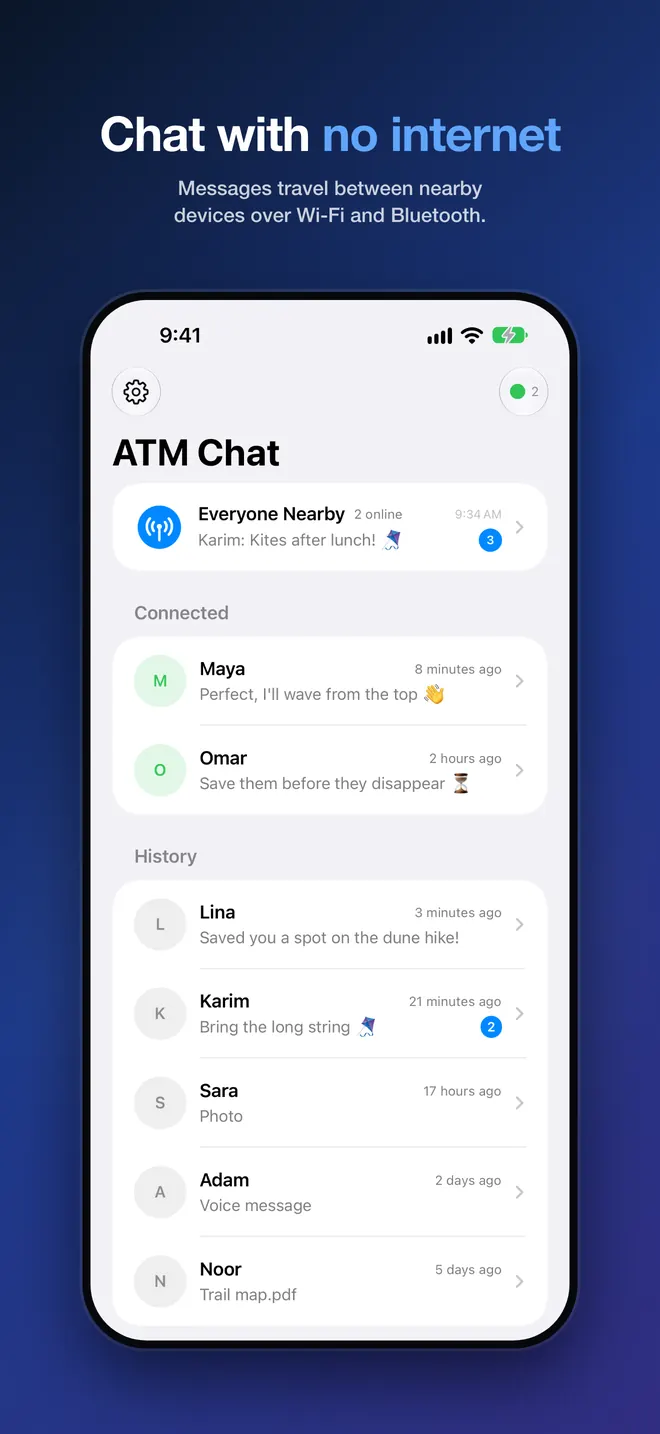
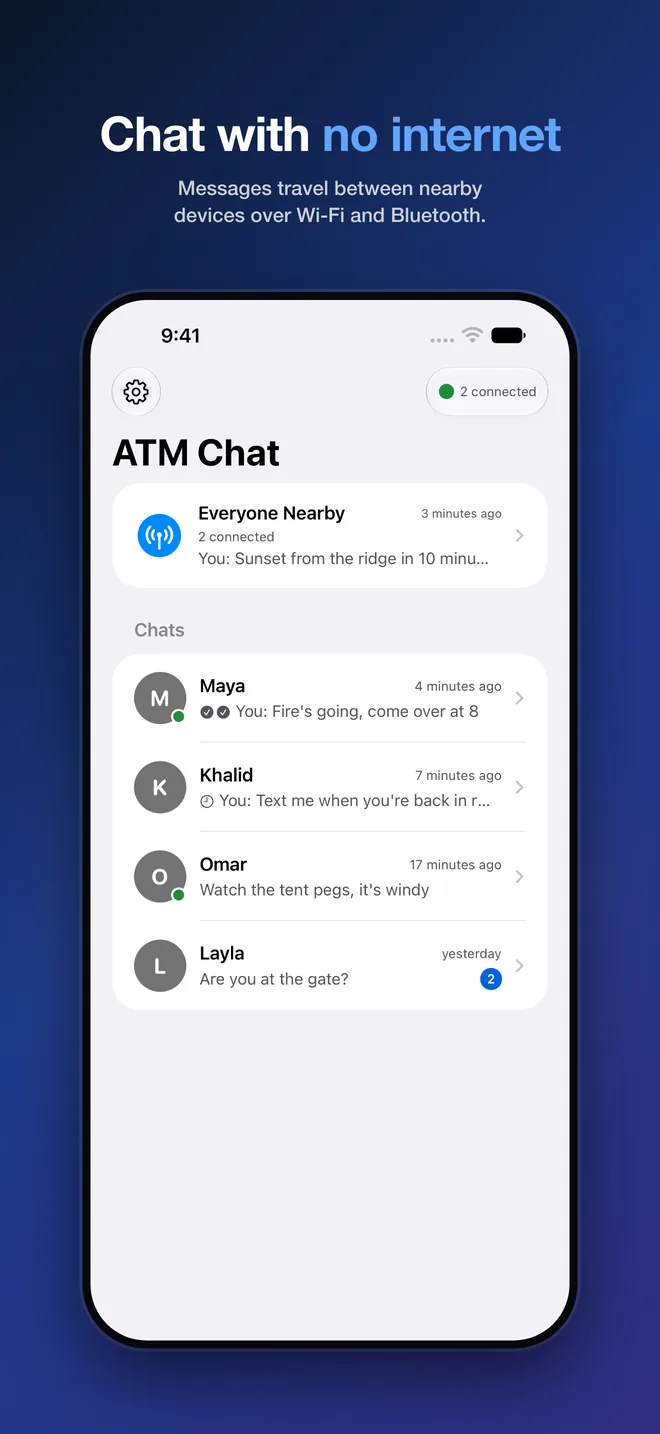
ATM Chat page: six gallery frames retaken on 1.2.0 (57), with matching alt text

diff --git a/docs/chat/index.html b/docs/chat/index.html
@@ -97,19 +97,19 @@
       <h2>Screenshots</h2>
       <div class="screenshot-gallery" role="region" aria-label="ATM Chat screenshots" tabindex="0">
         <div class="screenshot-item">
-          <img src="/images/screenshots/chat/appstore_01.webp" alt="Chat with no internet &mdash; the home screen with Everyone Nearby, connected people and chat history" width="660" height="1434" loading="lazy" decoding="async">
+          <img src="/images/screenshots/chat/appstore_01.webp?v=20261031" alt="Chat with no internet &mdash; the chat list with Everyone Nearby and chats with people nearby, no cell signal" width="660" height="1434" loading="lazy" decoding="async">
           <div class="caption">Chat with no internet</div>
         </div>
         <div class="screenshot-item">
-          <img src="/images/screenshots/chat/appstore_02.webp" alt="Photos, voice notes &amp; replies &mdash; a one-to-one chat with a photo, a voice message, a quoted reply and read receipts" width="660" height="1434" loading="lazy" decoding="async">
+          <img src="/images/screenshots/chat/appstore_02.webp?v=20261031" alt="Photos, voice notes &amp; replies &mdash; a one-to-one chat with a photo, a voice message, a quoted reply and read ticks" width="660" height="1434" loading="lazy" decoding="async">
           <div class="caption">Photos, voice notes &amp; replies</div>
         </div>
         <div class="screenshot-item">
-          <img src="/images/screenshots/chat/appstore_03.webp" alt="Talk to everyone nearby &mdash; the public Everyone Nearby room" width="660" height="1434" loading="lazy" decoding="async">
+          <img src="/images/screenshots/chat/appstore_03.webp?v=20261031" alt="Talk to everyone nearby &mdash; the public Everyone Nearby room" width="660" height="1434" loading="lazy" decoding="async">
           <div class="caption">Talk to everyone nearby</div>
         </div>
         <div class="screenshot-item">
-          <img src="/images/screenshots/chat/appstore_04.webp" alt="Save every photo in one tap &mdash; a chat's options menu in version 1.1, with Mute Notifications, Disappearing Messages, Save All Media, Report and Block" width="660" height="1434" loading="lazy" decoding="async">
+          <img src="/images/screenshots/chat/appstore_04.webp?v=20261031" alt="Save every photo in one tap &mdash; Chat Info with Mute, Auto-Delete, Save All Photos &amp; Videos, Report and Block" width="660" height="1434" loading="lazy" decoding="async">
           <div class="caption">Save every photo in one tap</div>
         </div>
         <div class="screenshot-item">
@@ -117,7 +117,7 @@
           <div class="caption">Out of range? It waits.</div>
         </div>
         <div class="screenshot-item">
-          <img src="/images/screenshots/chat/appstore_06.webp" alt="No account. Just a name. &mdash; Settings with your display name, device details and notification switches" width="660" height="1434" loading="lazy" decoding="async">
+          <img src="/images/screenshots/chat/appstore_06.webp?v=20261031" alt="No account. Just a name. &mdash; Settings with your display name, language options and notification switches" width="660" height="1434" loading="lazy" decoding="async">
           <div class="caption">No account. Just a name.</div>
         </div>
       </div>
